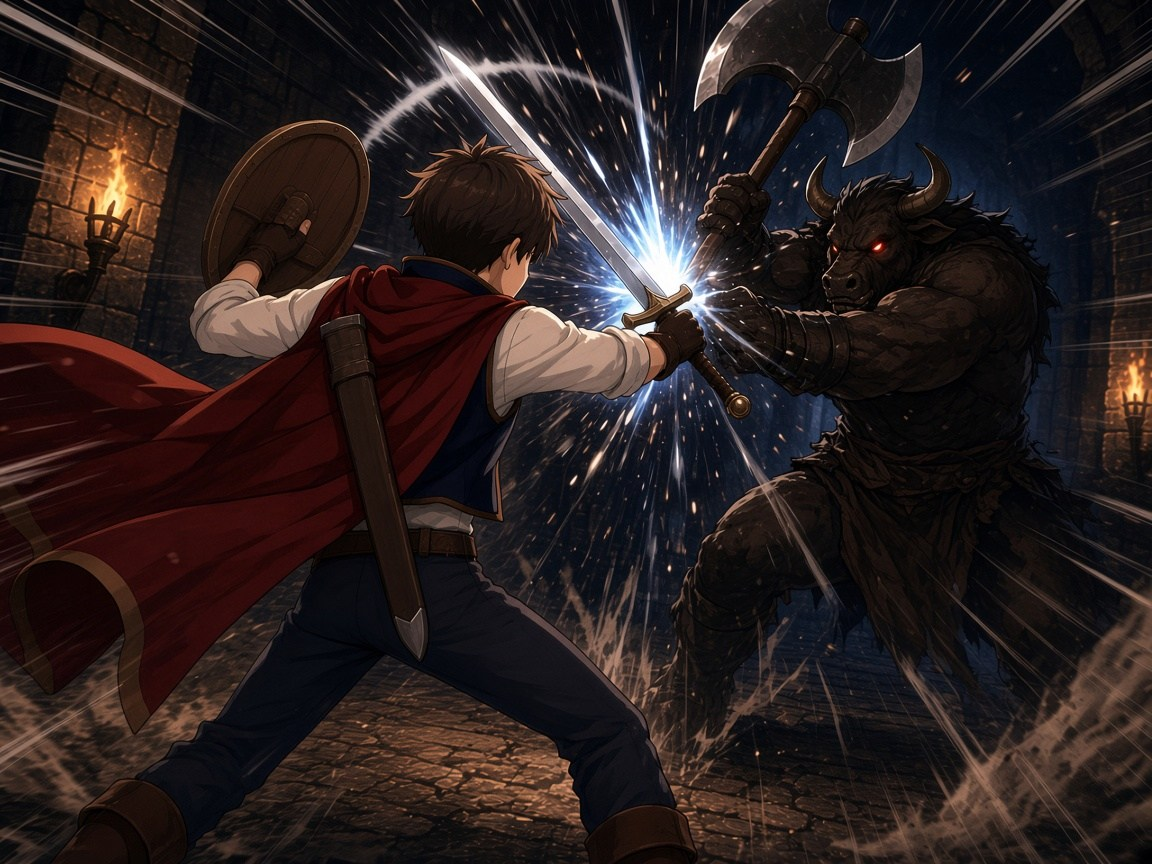
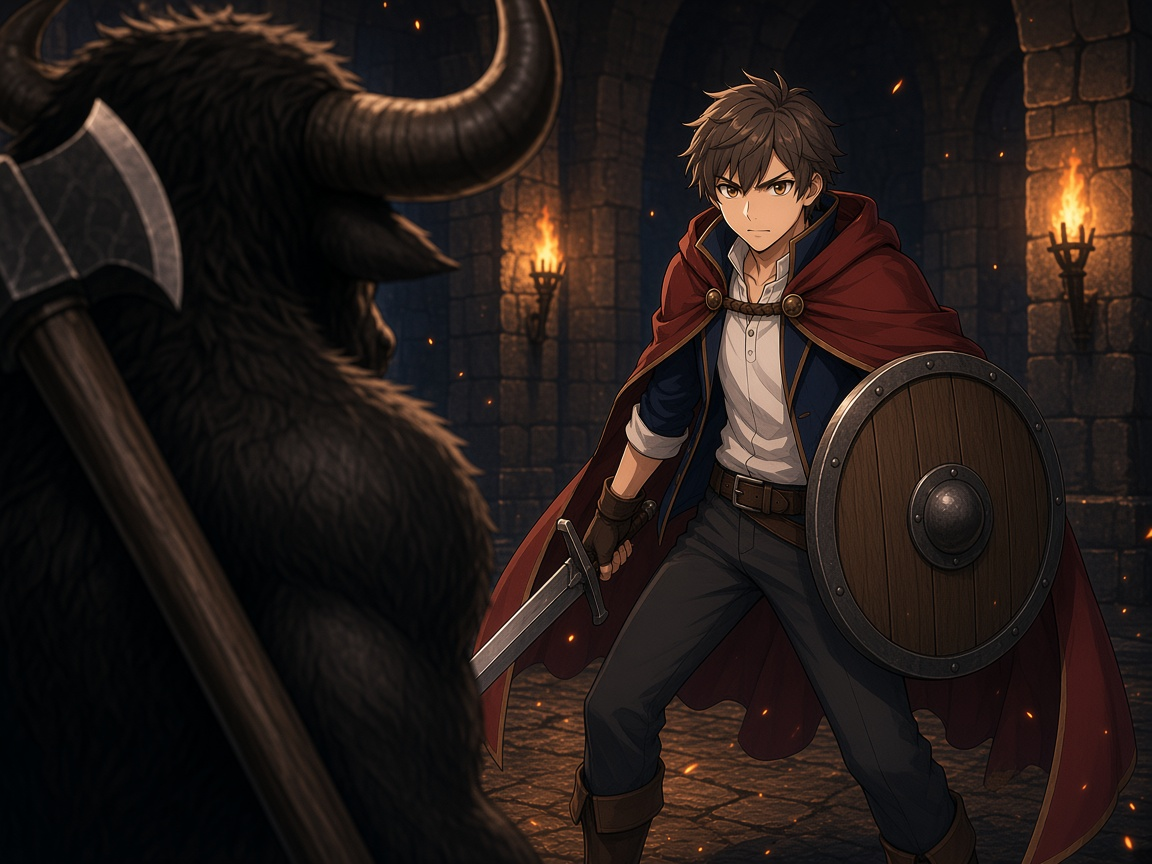
カード絵: パリィをミノタウロスの肩越しに盾を構えてにらむ男戦士に

diff --git a/index.html b/index.html
@@ -2877,7 +2877,7 @@
       チャージアタック: "card-charge.jpg?v=3",
       ブロック: "card-block.jpg?v=2",
       集中: "card-focus.jpg?v=3",
-      パリィ: "card-parry.jpg?v=3",
+      パリィ: "card-parry.jpg?v=4",
       捨て身の一撃: "card-reckless.jpg?v=1",
       怒り: "card-rage.jpg?v=1",
       パリィスラッシュ: "card-parry-slash.jpg?v=1",
@@ -5088,9 +5088,9 @@
               <figure><img class="card-ref" src="card-charge.jpg?v=3" alt=""><figcaption>チャージアタック</figcaption></figure>
               <figure><img class="card-ref" src="card-block.jpg?v=2" alt=""><figcaption>ブロック</figcaption></figure>
               <figure><img class="card-ref" src="card-focus.jpg?v=3" alt=""><figcaption>集中</figcaption></figure>
-              <figure><img class="card-ref" src="card-parry.jpg?v=3" alt=""><figcaption>パリィ</figcaption></figure>
+              <figure><img class="card-ref" src="card-parry.jpg?v=4" alt=""><figcaption>パリィ</figcaption></figure>
             </div>
-            <p class="sheet-cap">カードの絵の背景は、すべてを洞窟（ダンジョンの中）にしない。敵と対峙する絵や、クラス専用の絵は洞窟でよい。単純なアタック系・ブロック系は、背景を洞窟以外（無地のグラデーション）にして、腕のアップで描く。アタックは片腕で剣を振る斬撃、チャージアタックは両手で剣を振りかぶって力をためる、ビッグアタックは画面いっぱいの巨大な振り下ろし。ブロックは片腕で小さな丸盾を構えるアップ、ハードブロックは少し大きな盾を両手で構える、ビッグブロックは大きな盾で体がほとんど隠れる（髪と靴だけ見える）。腕は戦士と同じ（白いまくった袖、茶の指なし手袋、丸い木の盾、金の鍔のロングソード）。集中は戦士が剣を構え、金色の気を立ちのぼらせる。パリィは戦士の背中とミノタウロスの斧が噛み合う瞬間で、ぶつかる所に白い閃光と火花（この2枚は洞窟のまま）。</p>
+            <p class="sheet-cap">カードの絵の背景は、すべてを洞窟（ダンジョンの中）にしない。敵と対峙する絵や、クラス専用の絵は洞窟でよい。単純なアタック系・ブロック系は、背景を洞窟以外（無地のグラデーション）にして、腕のアップで描く。アタックは片腕で剣を振る斬撃、チャージアタックは両手で剣を振りかぶって力をためる、ビッグアタックは画面いっぱいの巨大な振り下ろし。ブロックは片腕で小さな丸盾を構えるアップ、ハードブロックは少し大きな盾を両手で構える、ビッグブロックは大きな盾で体がほとんど隠れる（髪と靴だけ見える）。腕は戦士と同じ（白いまくった袖、茶の指なし手袋、丸い木の盾、金の鍔のロングソード）。集中は戦士が剣を構え、金色の気を立ちのぼらせる。パリィはミノタウロスの肩越しの視点で、盾を構えてにらむ男の戦士（手前にミノタウロスの肩・角・斧がぼけて入る）。敵と対峙するこういう絵の背景は洞窟でよい。</p>
             <h4>戦士</h4>
             <div class="ref-grid">
               <figure><img class="card-ref" src="card-reckless.jpg?v=1" alt=""><figcaption>捨て身の一撃</figcaption></figure>
